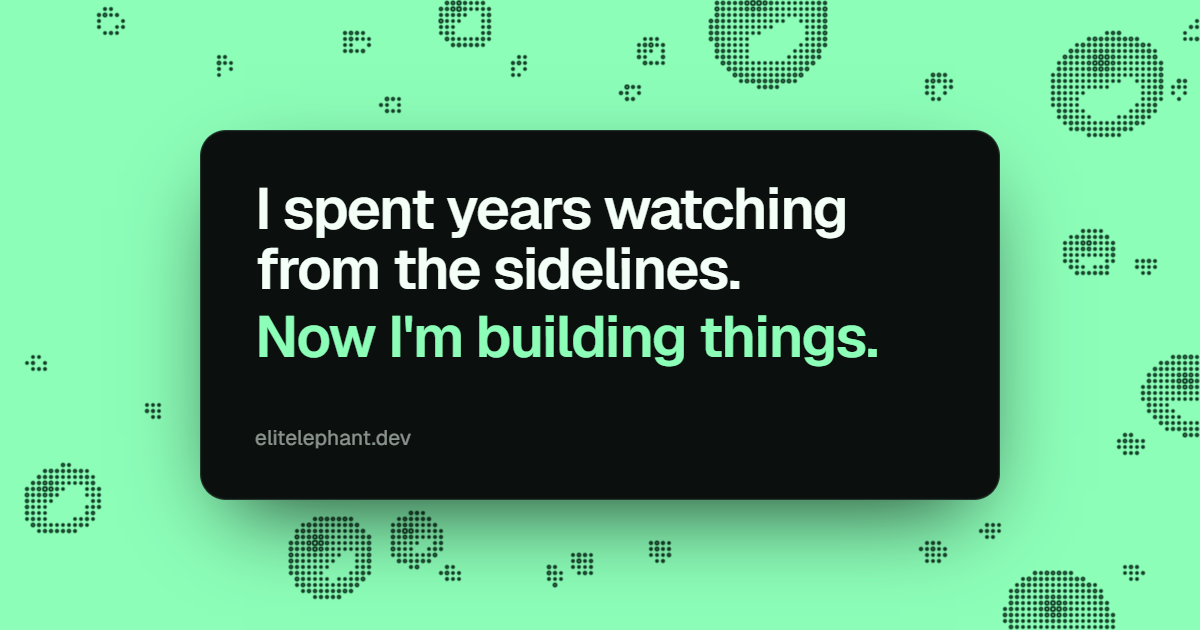
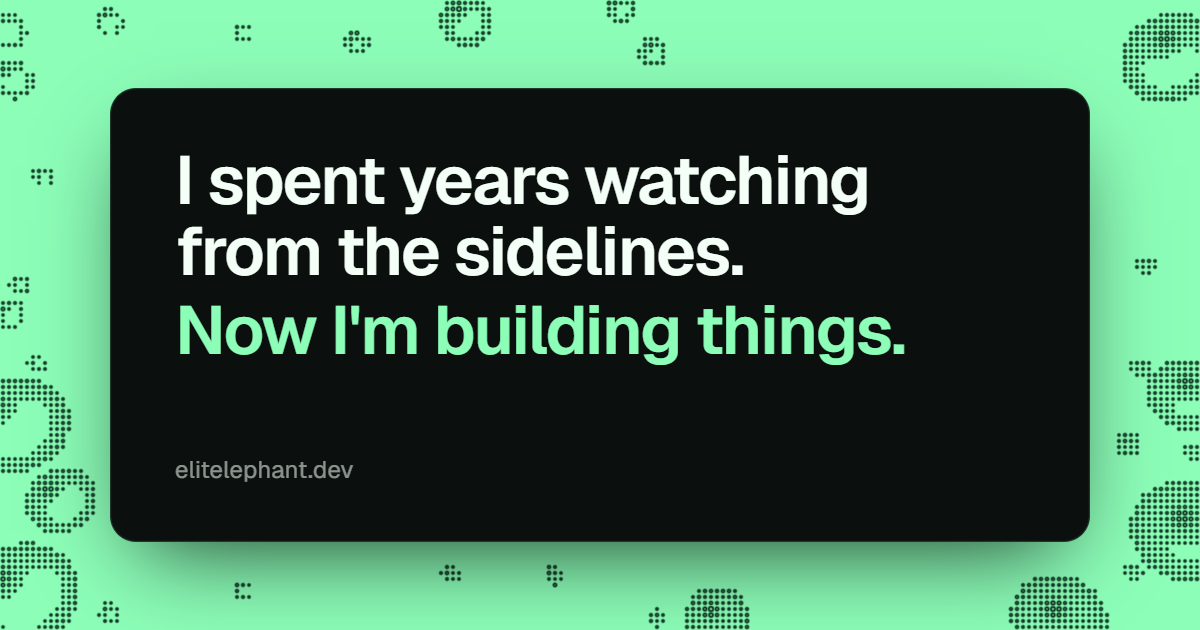
Make the card bigger in the share image
The headline now reads in small chat previews. Only the chosen layout
stays in the template.

diff --git a/scripts/og.ts b/scripts/og.ts
@@ -1,6 +1,5 @@
-// Renders the share image, the icons and the static fallback from scripts/og-template.html with Playwright.
-//   node scripts/og.ts                  writes everything into app/ and public/
-//   node scripts/og.ts --preview <dir>  writes every share-image layout into <dir> to compare them
+// Renders the share image, the icons and the static fallback from scripts/og-template.html with Playwright,
+// into app/ and public/. Run: node scripts/og.ts
 // The share image is final once published: Telegram, X and WhatsApp cache it.
 import { chromium, type Browser } from "@playwright/test";
 import { mkdir, readFile, stat, writeFile } from "node:fs/promises";
@@ -8,8 +7,6 @@ import path from "node:path";
 import { fileURLToPath } from "node:url";
 import { site } from "../content/site.ts";
 
-const OG_LAYOUT = "og-scatter";
-const OG_LAYOUTS = ["og-frame", "og-left", "og-scatter"];
 const OG_MAX_BYTES = 300 * 1024;
 
 const root = path.resolve(path.dirname(fileURLToPath(import.meta.url)), "..");
@@ -77,30 +74,18 @@ async function write(file: string, data: Buffer | string) {
   console.log(`${file}  ${((await stat(full)).size / 1024).toFixed(1)} KB`);
 }
 
-const og = (layout: string): Shot => ({ layout, width: 1200, height: 630, dpr: 1, cell: 6 });
-
 const browser = await chromium.launch({ args: ["--use-angle=swiftshader", "--enable-unsafe-swiftshader", "--ignore-gpu-blocklist"] });
 try {
-  const previewAt = process.argv.indexOf("--preview");
-  if (previewAt > -1) {
-    const dir = path.resolve(process.argv[previewAt + 1] ?? "og-preview");
-    for (const layout of OG_LAYOUTS) {
-      await mkdir(dir, { recursive: true });
-      await writeFile(path.join(dir, `${layout}.png`), await render(browser, og(layout)));
-      console.log(path.join(dir, `${layout}.png`));
-    }
-  } else {
-    const share = await render(browser, og(OG_LAYOUT));
-    if (share.length > OG_MAX_BYTES) throw new Error(`share image is ${share.length} bytes, over ${OG_MAX_BYTES}`);
-    await write("app/opengraph-image.png", share);
-    await write("app/twitter-image.png", share);
-    await write("app/opengraph-image.alt.txt", site.meta.ogAlt);
-    await write("app/twitter-image.alt.txt", site.meta.ogAlt);
-    await write("app/icon.png", await icon(browser, 32));
-    await write("app/apple-icon.png", await icon(browser, 180));
-    await write("public/fallback/rings-wide.webp", await render(browser, { layout: "fallback-wide", width: 1920, height: 1200, dpr: 1, cell: 6, webp: 0.8 }));
-    await write("public/fallback/rings-tall.webp", await render(browser, { layout: "fallback-tall", width: 390, height: 844, dpr: 3, cell: 6, webp: 0.8 }));
-  }
+  const share = await render(browser, { layout: "og", width: 1200, height: 630, dpr: 1, cell: 6 });
+  if (share.length > OG_MAX_BYTES) throw new Error(`share image is ${share.length} bytes, over ${OG_MAX_BYTES}`);
+  await write("app/opengraph-image.png", share);
+  await write("app/twitter-image.png", share);
+  await write("app/opengraph-image.alt.txt", site.meta.ogAlt);
+  await write("app/twitter-image.alt.txt", site.meta.ogAlt);
+  await write("app/icon.png", await icon(browser, 32));
+  await write("app/apple-icon.png", await icon(browser, 180));
+  await write("public/fallback/rings-wide.webp", await render(browser, { layout: "fallback-wide", width: 1920, height: 1200, dpr: 1, cell: 6, webp: 0.8 }));
+  await write("public/fallback/rings-tall.webp", await render(browser, { layout: "fallback-tall", width: 390, height: 844, dpr: 3, cell: 6, webp: 0.8 }));
 } finally {
   await browser.close();
 }

diff --git a/scripts/og-template.html b/scripts/og-template.html
@@ -50,41 +50,11 @@ function scatter(rnd, zone, count, rMin, rMax, area = { x: 0, y: 0, w: W, h: H }
   return out;
 }
 
-// A loose crowd around the card, like the back of the card: each at its own distance from the edge.
-function frame(rnd, card, count) {
-  const out = [];
-  const per = 2 * (card.w + card.h);
-  for (let i = 0; i < count * 6 && out.length < count; i++) {
-    const t = ((i * 0.618034) % 1) * per;
-    const r = 9 + 40 * rnd() ** 1.8;
-    const d = 18 + r + rnd() * 70;
-    let x, y;
-    if (t < card.w) { x = card.x + t; y = card.y - d; }
-    else if (t < card.w + card.h) { x = card.x + card.w + d; y = card.y + t - card.w; }
-    else if (t < 2 * card.w + card.h) { x = card.x + card.w - (t - card.w - card.h); y = card.y + card.h + d; }
-    else { x = card.x - d; y = card.y + card.h - (t - 2 * card.w - card.h); }
-    const b = { x: x + (rnd() - 0.5) * 30, y: y + (rnd() - 0.5) * 30, r };
-    if (visible(b) && clearOf(card, 14)(b) && apart(out, 8)(b)) out.push(b);
-  }
-  return out;
-}
-
 const LAYOUTS = {
-  'og-frame': () => {
-    const card = { x: 170, y: 120, w: 860, h: 390, pad: [52, 56], h1: 60, domain: 22 };
-    return { card, bubbles: frame(seeded(7), card, 34) };
-  },
-  'og-left': () => {
-    const card = { x: 64, y: 100, w: 700, h: 430, pad: [50, 54], h1: 54, domain: 22 };
-    const bubbles = [
-      { x: 1012, y: 318, r: 196 }, { x: 836, y: 82, r: 44 }, { x: 860, y: 566, r: 30 },
-      { x: 1168, y: 44, r: 58 }, { x: 806, y: 292, r: 16 }, { x: 1180, y: 612, r: 22 }, { x: 932, y: 34, r: 12 },
-    ];
-    return { card, bubbles };
-  },
-  'og-scatter': () => {
-    const card = { x: 200, y: 130, w: 800, h: 370, pad: [48, 54], h1: 58, domain: 21 };
-    return { card, bubbles: scatter(seeded(3), card, 30, 8, 58) };
+  // Share image, 1200×630: a big card (so the headline reads in chat previews) with bubbles scattered around it.
+  og: () => {
+    const card = { x: 110, y: 88, w: 980, h: 454, pad: [56, 64], h1: 68, domain: 24 };
+    return { card, bubbles: scatter(seeded(3), card, 30, 8, 52) };
   },
   // Static fallback behind the card on wide screens (drawn at 1920×1200): the card sits in the middle (780×456 at most).
   'fallback-wide': () => {
